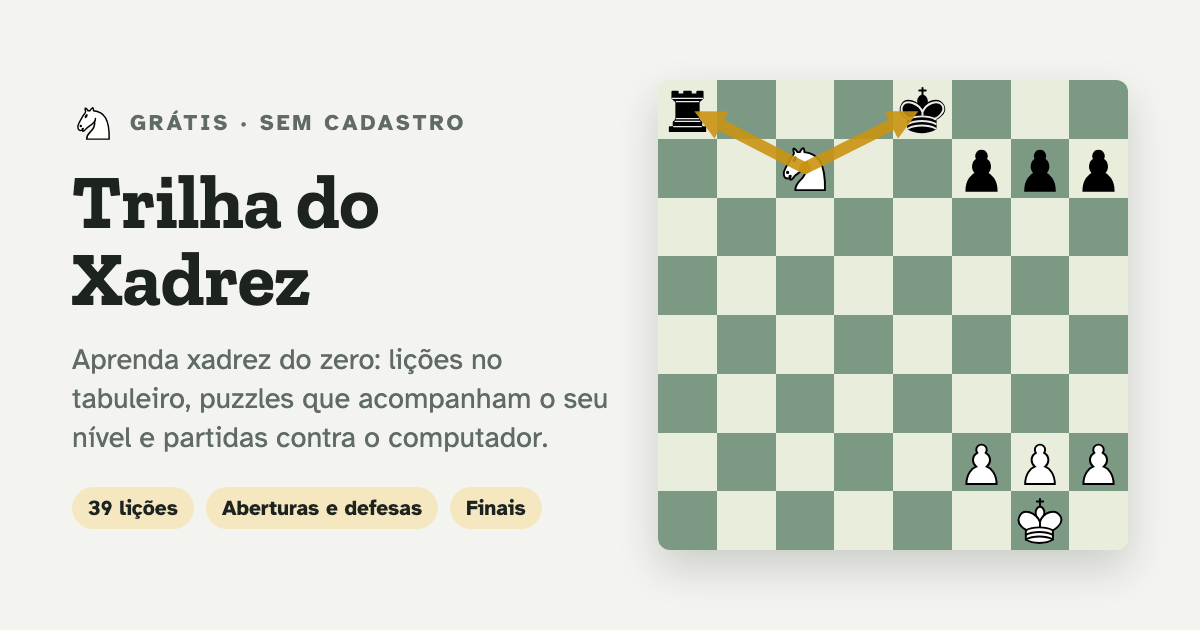
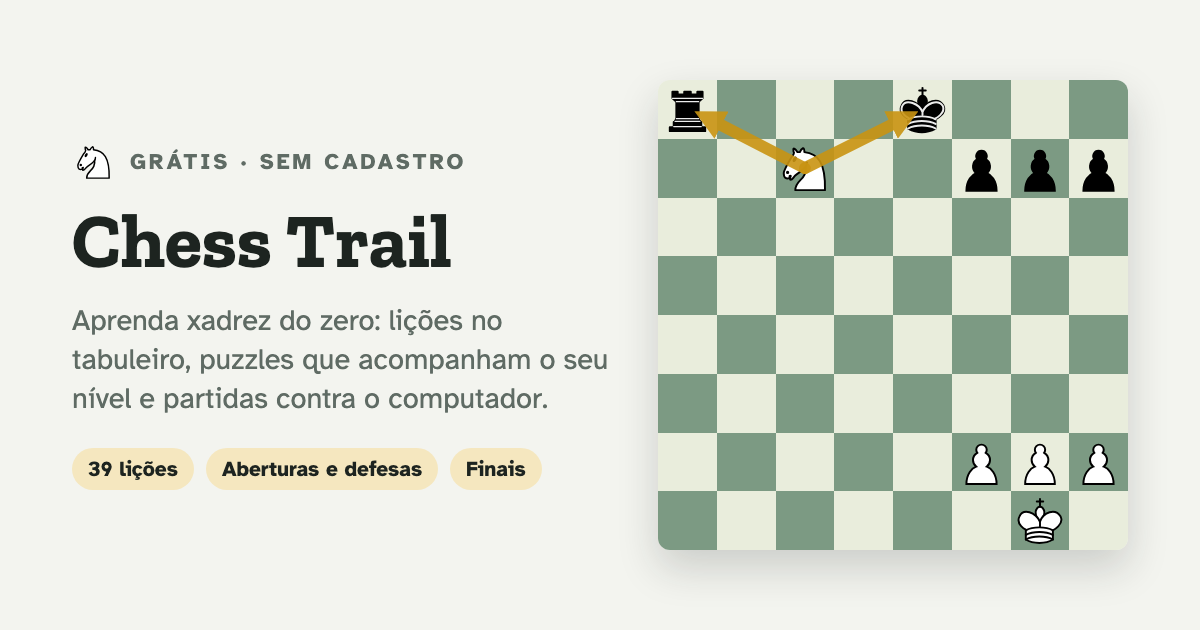
Novo nome: Chess Trail; importar progresso pelo link (#importar=)

Changed region(s): [[0.0617, 0.181, 0.5242, 0.8444]]

diff --git a/index.html b/index.html
@@ -3,25 +3,25 @@
 <head>
   <meta charset="utf-8">
   <meta name="viewport" content="width=device-width, initial-scale=1">
-  <title>Trilha do Xadrez</title>
+  <title>Chess Trail</title>
   <meta name="description" content="Aprenda xadrez do zero, de graça: lições guiadas com exercícios no tabuleiro, puzzles que acompanham o seu nível e partidas contra o computador com revisão dos erros.">
   <meta name="theme-color" content="#7c9a83">
-  <meta property="og:title" content="Trilha do Xadrez">
+  <meta property="og:title" content="Chess Trail">
   <meta property="og:description" content="Lições, puzzles e partidas contra o computador para aprender xadrez do zero.">
   <meta property="og:type" content="website">
   <meta property="og:url" content="https://andrecavalcantii.github.io/trilha-xadrez/">
   <meta property="og:locale" content="pt_BR">
-  <meta property="og:site_name" content="Trilha do Xadrez">
+  <meta property="og:site_name" content="Chess Trail">
   <meta property="og:image" content="https://andrecavalcantii.github.io/trilha-xadrez/assets/og.png">
   <meta property="og:image:width" content="1200">
   <meta property="og:image:height" content="630">
-  <meta property="og:image:alt" content="Trilha do Xadrez: um tabuleiro com um garfo de cavalo">
+  <meta property="og:image:alt" content="Chess Trail: um tabuleiro com um garfo de cavalo">
   <meta name="twitter:card" content="summary_large_image">
   <link rel="icon" href="assets/pieces/wN.svg" type="image/svg+xml">
   <link rel="manifest" href="manifest.webmanifest">
   <link rel="apple-touch-icon" href="assets/icon-180.png">
   <meta name="apple-mobile-web-app-capable" content="yes">
-  <meta name="apple-mobile-web-app-title" content="Xadrez">
+  <meta name="apple-mobile-web-app-title" content="Chess Trail">
   <link rel="canonical" href="https://andrecavalcantii.github.io/trilha-xadrez/">
   <link rel="preconnect" href="https://fonts.googleapis.com">
   <link rel="preconnect" href="https://fonts.gstatic.com" crossorigin>
@@ -31,7 +31,7 @@
 </head>
 <body>
   <header class="topbar">
-    <a class="brand" href="#/"><img class="brand-mark" src="assets/pieces/wN.svg" alt=""><span class="brand-name">Trilha do Xadrez</span></a>
+    <a class="brand" href="#/"><img class="brand-mark" src="assets/pieces/wN.svg" alt=""><span class="brand-name">Chess Trail</span></a>
     <nav class="nav" aria-label="Principal">
       <a href="#/">Trilha</a>
       <a href="#/puzzles">Puzzles</a>

diff --git a/js/app.js b/js/app.js
@@ -47,7 +47,7 @@ function telaInicio() {
   app.innerHTML = "";
   const hero = h(`<section class="hero">
     <div>
-      <p class="eyebrow">Trilha do Xadrez</p>
+      <p class="eyebrow">Chess Trail</p>
       <h1>Aprenda xadrez do zero, no seu ritmo.</h1>
       <p class="lead">Lições curtas com exercícios no tabuleiro, puzzles de partidas reais que acompanham o seu nível e partidas contra o computador com revisão dos erros.</p>
       <div class="btn-row" style="margin-top:20px">
@@ -783,7 +783,15 @@ function rota() {
   else if (pagina === "revisar") telaRevisar();
   else telaInicio();
   topo();
-  document.title = (pagina === "licao" && licao(arg) ? licao(arg).titulo + " · " : pagina === "puzzles" ? "Puzzles · " : pagina === "jogar" ? "Jogar · " : pagina === "revisar" ? "Revisar · " : "") + "Trilha do Xadrez";
+  document.title = (pagina === "licao" && licao(arg) ? licao(arg).titulo + " · " : pagina === "puzzles" ? "Puzzles · " : pagina === "jogar" ? "Jogar · " : pagina === "revisar" ? "Revisar · " : "") + "Chess Trail";
 }
-window.addEventListener("hashchange", rota);
+// progresso vindo do endereço antigo: o redirecionamento manda o código no link (#importar=TX1...)
+async function importarDoLink() {
+  const m = location.hash.match(/^#importar=(.+)$/);
+  if (!m) return;
+  try { progresso.mesclar(P, await progresso.importar(decodeURIComponent(m[1]))); progresso.save(P); } catch { /* código ruim: segue sem ele */ }
+  history.replaceState(null, "", location.pathname + location.search + "#/");
+}
+window.addEventListener("hashchange", () => (location.hash.startsWith("#importar=") ? importarDoLink().then(rota) : rota()));
+await importarDoLink();
 rota();

diff --git a/js/progress.js b/js/progress.js
@@ -49,7 +49,7 @@ export async function importar(codigo) {
     if (typeof DecompressionStream !== "function") throw new Error("Este navegador é antigo demais para ler o código. Atualize-o e tente de novo.");
     bytes = await passar(unb64(corpo), new DecompressionStream("deflate-raw"));
   } else if (tipo === "TX0.") bytes = unb64(corpo);
-  else throw new Error("Esse não parece um código de progresso da Trilha do Xadrez.");
+  else throw new Error("Esse não parece um código de progresso da Chess Trail.");
   const p = JSON.parse(new TextDecoder().decode(bytes));
   if (!p || typeof p !== "object" || !p.licoes) throw new Error("O código está incompleto.");
   return Object.assign(vazio(), p);

diff --git a/sw.js b/sw.js
@@ -1,7 +1,7 @@
 // Funciona sem internet: guarda o site inteiro no aparelho na primeira visita.
 // Código e dados: busca a versão nova na rede e cai no que está guardado se não houver
 // conexão. Peças, motor e fontes: usa o guardado direto (não mudam).
-const CACHE = "trilha-v1";
+const CACHE = "chesstrail-v1";
 const ARQUIVOS = [
   "./", "index.html", "manifest.webmanifest", "css/app.css",
   "js/app.js", "js/board.js", "js/engine.js", "js/lessons.js", "js/linha.js", "js/progress.js", "js/puzzle.js", "js/revisao.js", "js/rules.js",

diff --git a/scripts/build_puzzles.py b/scripts/build_puzzles.py
@@ -59,7 +59,7 @@ def main():
     por_tema = {t: [] for t in TEMAS}
     usados = set()
     lidos = 0
-    req = urllib.request.Request(URL, headers={"User-Agent": "TrilhaDoXadrez/1.0"})
+    req = urllib.request.Request(URL, headers={"User-Agent": "ChessTrail/1.0"})
     with urllib.request.urlopen(req, timeout=120) as resposta:
         leitor = zstandard.ZstdDecompressor().stream_reader(resposta)
         texto = io.TextIOWrapper(leitor, encoding="utf-8")

diff --git a/README.md b/README.md
@@ -1,4 +1,4 @@
-# Trilha do Xadrez
+# Chess Trail
 
 Site gratuito para aprender xadrez do zero: 39 lições guiadas em 6 níveis (do movimento das peças a tática, finais, aberturas e defesas), puzzles táticos que se ajustam ao seu nível e partidas contra o computador (8 níveis) com revisão dos erros. O progresso fica salvo no navegador (com um código para levar a outro aparelho), as aberturas e os puzzles errados voltam numa revisão espaçada, e o site pode ser instalado no celular e usado sem internet.
 
